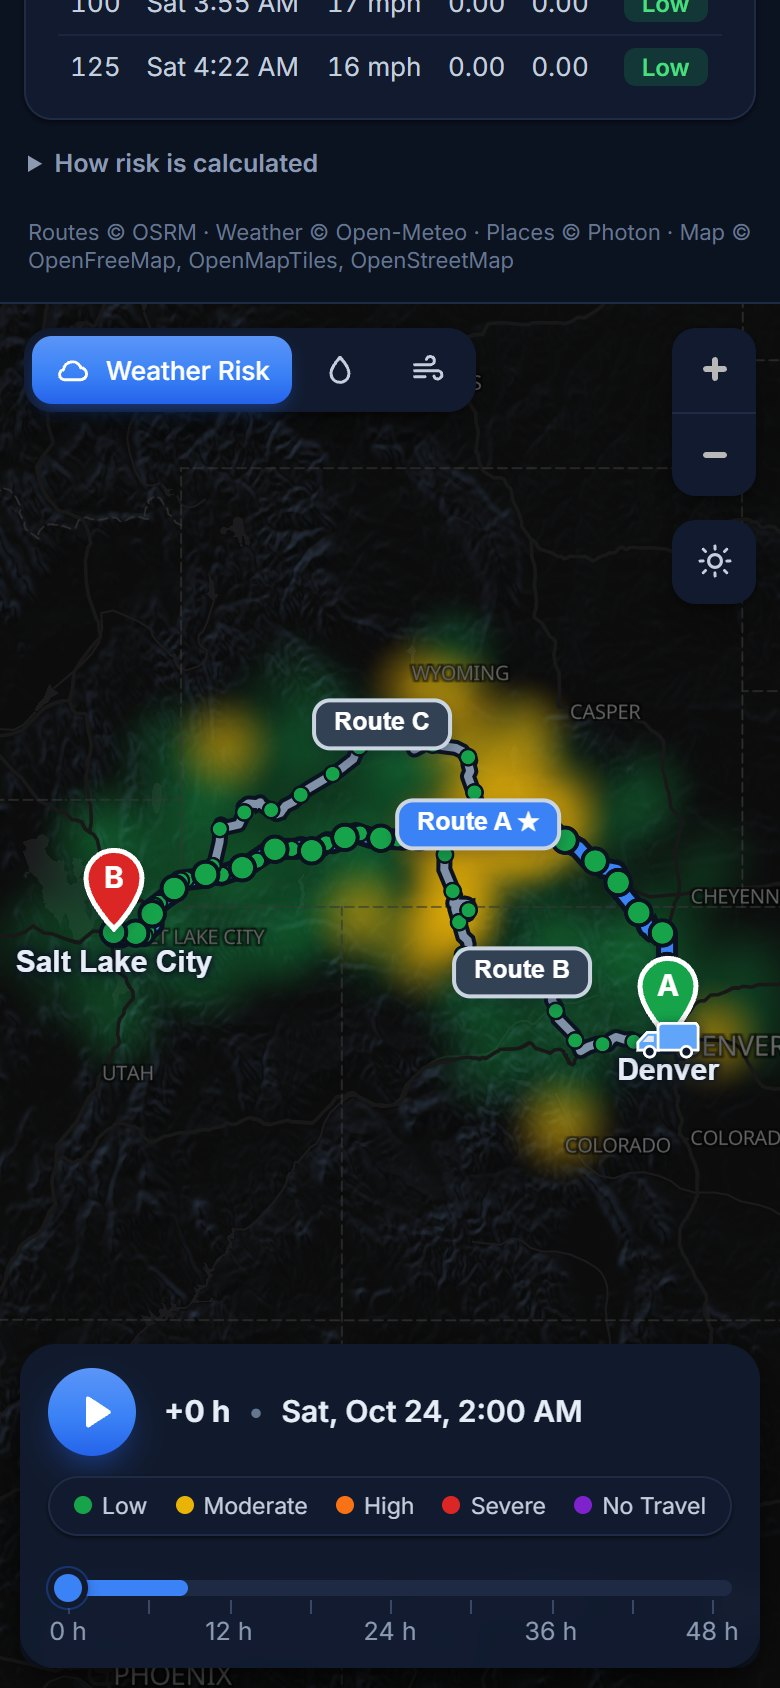
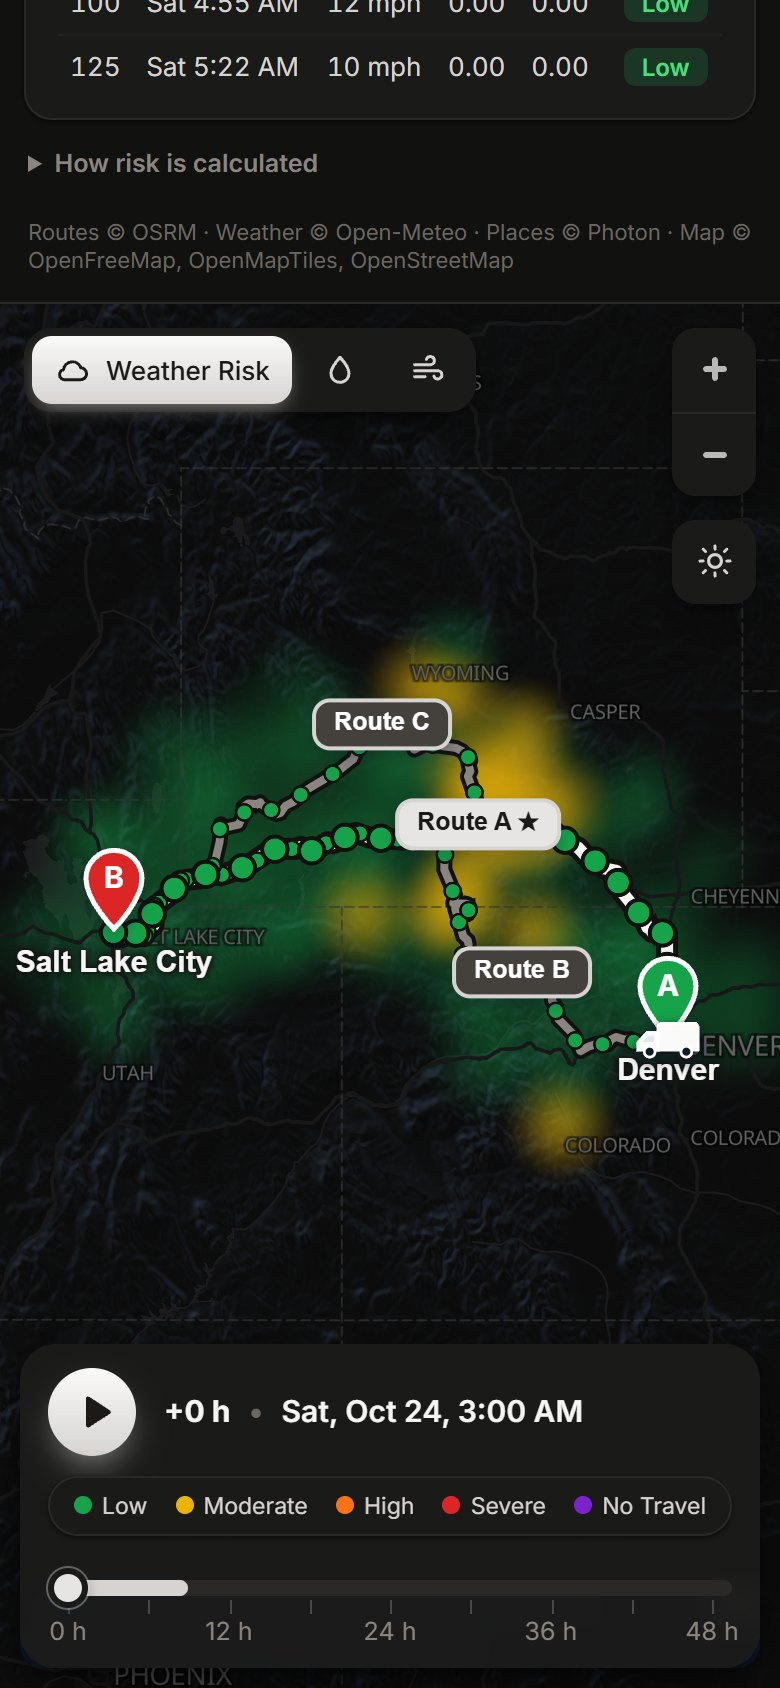
Graphite colour scheme
- Warm stone greys with near-black buttons, selection and route line in
  light mode; charcoal surfaces with light-stone accents and an off-white
  route line in dark mode. Risk colours are now the only saturated colours.
- Brand, route and glow colours are CSS tokens (the map reads its route
  colours from CSS), so a palette lives in one place; text on accent
  surfaces follows the theme.
- Graphite favicon and theme-color; tighter inputs and ellipsis on phones.

diff --git a/frontend/src/index.css b/frontend/src/index.css
@@ -1,43 +1,54 @@
 :root {
-  --bg: #f5f7fb;
+  --on-accent: #ffffff;
+  --shield-check: #ffffff;
+  --bg: #f5f5f4;
   --panel: #ffffff;
-  --text: #0f172a;
-  --text-2: #334155;
-  --muted: #64748b;
-  --faint: #94a3b8;
-  --line: #e3e8f0;
-  --line-strong: #d5dce6;
-  --accent: #2563eb;
-  --accent-strong: #1d4ed8;
-  --accent-soft: #eff5ff;
-  --accent-tint: #dbe7fe;
-  --accent-gradient: linear-gradient(180deg, #3b82f6 0%, #2563eb 60%, #1e54d6 100%);
+  --text: #1c1917;
+  --text-2: #44403c;
+  --muted: #78716c;
+  --faint: #a8a29e;
+  --line: #e7e5e4;
+  --line-strong: #d6d3d1;
+  --accent: #1c1917;
+  --accent-strong: #0c0a09;
+  --accent-soft: #f2f2f0;
+  --accent-tint: #e7e5e4;
+  --accent-gradient: linear-gradient(180deg, #44403c 0%, #1c1917 100%);
+  --accent-rgb: 28 25 23; /* for glows: rgb(var(--accent-rgb) / alpha) */
+  /* Brand (logo, shield) and map route colours. */
+  --brand: #292524;
+  --brand-deep: #0c0a09;
+  --brand-light: #a8a29e;
+  --brand-pale: #e7e5e4;
+  --route-selected: #1c1917;
+  --route-other: #a1a1aa;
+  --route-casing: #ffffff;
   --shadow-sm: 0 1px 2px rgba(15, 23, 42, 0.05), 0 1px 3px rgba(15, 23, 42, 0.05);
   --shadow-md: 0 2px 4px rgba(15, 23, 42, 0.04), 0 10px 26px -8px rgba(15, 23, 42, 0.2);
   --shadow-lg: 0 4px 10px rgba(15, 23, 42, 0.06), 0 18px 40px -12px rgba(15, 23, 42, 0.28);
   --surface: #ffffff;
-  --surface-2: #f8fafc;
-  --surface-hover: #f1f5f9;
-  --text-3: #475569;
-  --line-hover: #b9c6d8;
-  --row-line: #f1f4f8;
-  --row-hover: #f5f8fd;
-  --swap-border: #d6e3fb;
-  --radio-border: #b8c2d0;
-  --selected-bg: #f3f8ff;
-  --selected-border: #3b82f6;
-  --strip-bg: #e2e8f0;
-  --why-bg: #edf4ff;
-  --why-border: #d9e7fd;
-  --why-title: #1e3a8a;
+  --surface-2: #fafaf9;
+  --surface-hover: #f2f2f0;
+  --text-3: #57534e;
+  --line-hover: #a8a29e;
+  --row-line: #f0efed;
+  --row-hover: #f7f7f5;
+  --swap-border: #e7e5e4;
+  --radio-border: #d6d3d1;
+  --selected-bg: #fafaf9;
+  --selected-border: #1c1917;
+  --strip-bg: #e7e5e4;
+  --why-bg: #f5f5f4;
+  --why-border: #e7e5e4;
+  --why-title: #1c1917;
   --glass: rgba(255, 255, 255, 0.97);
-  --track: #e4ebf5;
-  --track-progress: #c4d9fb;
-  --trip-window: #3b82f6;
-  --tick: #b8c4d4;
-  --tag-bg: #4b5563;
+  --track: #ececea;
+  --track-progress: #d6d3d1;
+  --trip-window: #57534e;
+  --tick: #d6d3d1;
+  --tag-bg: #57534e;
   --tag-border: #ffffff;
-  --truck: #475569;
+  --truck: #57534e;
   --marker-halo: #ffffff;
   --error-bg: #fef2f2;
   --error-border: #fecaca;
@@ -104,7 +115,7 @@ h1, h2, h3, p { margin: 0; }
   border-radius: 10px;
   transition: border-color 0.15s, box-shadow 0.15s;
 }
-.input-shell:focus-within { border-color: var(--accent); box-shadow: 0 0 0 3px rgba(37, 99, 235, 0.14); }
+.input-shell:focus-within { border-color: var(--accent); box-shadow: 0 0 0 3px rgb(var(--accent-rgb) / 0.14); }
 .input-shell input {
   flex: 1;
   min-width: 0;
@@ -116,6 +127,7 @@ h1, h2, h3, p { margin: 0; }
   font-size: 13.5px;
   color: var(--text);
 }
+.input-shell input { text-overflow: ellipsis; }
 .input-shell input::placeholder { color: var(--faint); }
 .input-icon { color: var(--muted); flex-shrink: 0; }
 .input-text { flex: 1; min-width: 0; font-size: 13.5px; white-space: nowrap; overflow: hidden; text-overflow: ellipsis; }
@@ -161,21 +173,21 @@ h1, h2, h3, p { margin: 0; }
   transition: background 0.15s;
 }
 .segmented button:hover { background: var(--accent-tint); }
-.segmented button.on { background: var(--accent-gradient); color: #fff; font-weight: 600; box-shadow: 0 2px 6px -1px rgba(37, 99, 235, 0.5); }
+.segmented button.on { background: var(--accent-gradient); color: var(--on-accent); font-weight: 600; box-shadow: 0 2px 6px -1px rgb(var(--accent-rgb) / 0.5); }
 
 button.primary {
   height: 46px;
   border: 0;
   border-radius: 10px;
   background: var(--accent-gradient);
-  color: #fff;
+  color: var(--on-accent);
   font-size: 15px;
   font-weight: 600;
   display: flex;
   align-items: center;
   justify-content: center;
   gap: 10px;
-  box-shadow: 0 8px 18px -6px rgba(37, 99, 235, 0.6), inset 0 1px 0 rgba(255, 255, 255, 0.18);
+  box-shadow: 0 8px 18px -6px rgb(var(--accent-rgb) / 0.6), inset 0 1px 0 rgba(255, 255, 255, 0.18);
   transition: filter 0.15s, transform 0.05s;
 }
 button.primary:hover { filter: brightness(1.06); }
@@ -349,7 +361,7 @@ button.link:hover { text-decoration: underline; }
   transition: background 0.15s;
 }
 .layer-switch button:hover { background: var(--surface-hover); }
-.layer-switch button.on { background: var(--accent-gradient); color: #fff; box-shadow: 0 4px 10px -3px rgba(37, 99, 235, 0.55); }
+.layer-switch button.on { background: var(--accent-gradient); color: var(--on-accent); box-shadow: 0 4px 10px -3px rgb(var(--accent-rgb) / 0.55); }
 
 .maplibregl-ctrl-top-right .maplibregl-ctrl { margin: 20px 20px 0 0; }
 .maplibregl-ctrl-group:not(:empty) { border-radius: 12px; box-shadow: var(--shadow-md); overflow: hidden; }
@@ -394,7 +406,7 @@ button.link:hover { text-decoration: underline; }
 }
 .route-tag-meta { display: inline-flex; align-items: center; gap: 5px; font-size: 11px; font-weight: 500; opacity: 0.88; }
 .route-tag-meta i { width: 7px; height: 7px; border-radius: 50%; box-shadow: 0 0 0 1.5px rgba(255, 255, 255, 0.85); }
-.route-tag.selected { background: var(--accent); padding: 5px 12px 6px; font-size: 14px; z-index: 2; }
+.route-tag.selected { background: var(--accent); color: var(--on-accent); padding: 5px 12px 6px; font-size: 14px; z-index: 2; }
 .route-tag.selected .route-tag-meta { font-size: 11.5px; opacity: 0.95; }
 
 /* Checkpoint popup */
@@ -443,8 +455,8 @@ button.link:hover { text-decoration: underline; }
   border: 0;
   border-radius: 50%;
   background: var(--accent-gradient);
-  color: #fff;
-  box-shadow: 0 8px 18px -6px rgba(37, 99, 235, 0.65);
+  color: var(--on-accent);
+  box-shadow: 0 8px 18px -6px rgb(var(--accent-rgb) / 0.65);
 }
 .forecast-label { display: flex; align-items: baseline; gap: 9px; font-size: 18px; font-weight: 600; white-space: nowrap; }
 .forecast-label strong { font-weight: 700; }
@@ -473,55 +485,65 @@ button.link:hover { text-decoration: underline; }
 .track input[type="range"]::-moz-range-track { height: 24px; background: transparent; }
 .track input[type="range"]::-webkit-slider-thumb {
   -webkit-appearance: none; width: 20px; height: 20px; margin-top: 2px; border-radius: 50%;
-  background: var(--accent); border: 3px solid var(--surface); box-shadow: 0 0 0 1px rgba(37, 99, 235, 0.35), 0 2px 6px rgba(15, 23, 42, 0.35);
+  background: var(--accent); border: 3px solid var(--surface); box-shadow: 0 0 0 1px rgb(var(--accent-rgb) / 0.35), 0 2px 6px rgba(15, 23, 42, 0.35);
 }
 .track input[type="range"]::-moz-range-thumb {
   width: 14px; height: 14px; border-radius: 50%;
-  background: var(--accent); border: 3px solid var(--surface); box-shadow: 0 0 0 1px rgba(37, 99, 235, 0.35), 0 2px 6px rgba(15, 23, 42, 0.35);
+  background: var(--accent); border: 3px solid var(--surface); box-shadow: 0 0 0 1px rgb(var(--accent-rgb) / 0.35), 0 2px 6px rgba(15, 23, 42, 0.35);
 }
-.track input[type="range"]:focus-visible { outline: 2px solid rgba(37, 99, 235, 0.35); outline-offset: 3px; border-radius: 6px; }
+.track input[type="range"]:focus-visible { outline: 2px solid rgb(var(--accent-rgb) / 0.35); outline-offset: 3px; border-radius: 6px; }
 .tick-labels { position: relative; height: 20px; margin-top: 2px; font-size: 12.5px; color: var(--muted); }
 .tick-labels span { position: absolute; transform: translateX(-50%); white-space: nowrap; }
 
 /* ---------- Dark theme ---------- */
 :root[data-theme="dark"] {
-  --bg: #0b1220;
-  --panel: #111a2e;
-  --surface: #111a2e;
-  --surface-2: #0e1628;
-  --surface-hover: #1a2540;
-  --text: #e6edf7;
-  --text-2: #c3cede;
-  --text-3: #9fb0c8;
-  --muted: #8b9ab2;
-  --faint: #66768f;
-  --line: #1f2b45;
-  --line-strong: #2a3756;
-  --line-hover: #3a4b70;
-  --row-line: #1a2540;
-  --row-hover: #16213a;
-  --accent: #3b82f6;
-  --accent-strong: #60a5fa;
-  --accent-soft: #15233f;
-  --accent-tint: #1c3157;
-  --accent-gradient: linear-gradient(180deg, #5b95f8 0%, #3b82f6 55%, #2563eb 100%);
-  --swap-border: #24375e;
-  --radio-border: #3a4865;
-  --selected-bg: #13244a;
-  --selected-border: #3b82f6;
-  --strip-bg: #24314d;
-  --why-bg: #112142;
-  --why-border: #1e3563;
-  --why-title: #bfdbfe;
-  --glass: rgba(17, 26, 46, 0.95);
-  --track: #1e2a44;
-  --track-progress: #23447c;
-  --trip-window: #3b82f6;
-  --tick: #3a4865;
-  --tag-bg: #334155;
-  --tag-border: #cbd5e1;
-  --truck: #cbd5e1;
-  --marker-halo: #0b1220;
+  --on-accent: #1c1917;
+  --shield-check: #1c1917;
+  --brand: #a8a29e;
+  --brand-deep: #78716c;
+  --brand-light: #d6d3d1;
+  --brand-pale: #e7e5e4;
+  --bg: #111110;
+  --panel: #1a1a19;
+  --surface: #1a1a19;
+  --surface-2: #151514;
+  --surface-hover: #242422;
+  --text: #f5f5f4;
+  --text-2: #d6d3d1;
+  --text-3: #a8a29e;
+  --muted: #8a8580;
+  --faint: #6b6762;
+  --line: #2a2928;
+  --line-strong: #353330;
+  --line-hover: #4a4744;
+  --row-line: #232221;
+  --row-hover: #1f1e1d;
+  --accent: #e7e5e4;
+  --accent-strong: #fafaf9;
+  --accent-soft: #262524;
+  --accent-tint: #302e2c;
+  --accent-gradient: linear-gradient(180deg, #fafaf9 0%, #d6d3d1 100%);
+  --accent-rgb: 231 229 228;
+  --route-selected: #f5f5f4;
+  --route-other: #8a8580;
+  --route-casing: #111110;
+  --swap-border: #2f2d2b;
+  --radio-border: #4a4744;
+  --selected-bg: #232221;
+  --selected-border: #e7e5e4;
+  --strip-bg: #2f2d2b;
+  --why-bg: #1d1c1b;
+  --why-border: #2f2d2b;
+  --why-title: #f5f5f4;
+  --glass: rgba(26, 26, 25, 0.95);
+  --track: #2a2928;
+  --track-progress: #4a4744;
+  --trip-window: #d6d3d1;
+  --tick: #4a4744;
+  --tag-bg: #44403c;
+  --tag-border: #d6d3d1;
+  --truck: #d6d3d1;
+  --marker-halo: #111110;
   --error-bg: #2a1215;
   --error-border: #5c1d24;
   --error-text: #fca5a5;
@@ -533,8 +555,8 @@ button.link:hover { text-decoration: underline; }
   --risk-tint-3: rgba(239, 68, 68, 0.2); --risk-tint-4: rgba(168, 85, 247, 0.22);
   color-scheme: dark;
 }
-:root[data-theme="dark"] .truck-marker.selected { color: #60a5fa; }
-:root[data-theme="dark"] .why svg { filter: drop-shadow(0 0 10px rgba(59, 130, 246, 0.35)); }
+:root[data-theme="dark"] .truck-marker.selected { color: #fafaf9; }
+
 /* MapLibre's own controls: dark surfaces, light icons. */
 :root[data-theme="dark"] .maplibregl-ctrl-group { background: var(--surface); }
 :root[data-theme="dark"] .maplibregl-ctrl-group button + button { border-top-color: var(--line); }
@@ -575,6 +597,8 @@ button.link:hover { text-decoration: underline; }
   .brand p { white-space: normal; }
   .layer-switch button:not(.on) span { display: none; }
   .route-card { padding: 12px; gap: 10px; }
+  .input-shell { gap: 6px; padding: 0 8px 0 9px; }
+  .input-shell input, .input-text { font-size: 13px; }
   /* The cards above already carry each route's summary; keep map tags compact. */
   .route-tag-meta { display: none; }
   .route-tag, .route-tag.selected { padding: 3px 9px; font-size: 12.5px; }

diff --git a/frontend/src/icons.tsx b/frontend/src/icons.tsx
@@ -122,12 +122,12 @@ export const ShieldCheckIcon = ({ size = 40 }: { size?: number }) => (
   <svg width={size} height={size} viewBox="0 0 40 40" aria-hidden>
     <defs>
       <linearGradient id="shield-fill" x1="0" y1="0" x2="0" y2="1">
-        <stop offset="0" stopColor="#60a5fa" />
-        <stop offset="1" stopColor="#2563eb" />
+        <stop offset="0" style={{ stopColor: "var(--brand-light)" }} />
+        <stop offset="1" style={{ stopColor: "var(--brand)" }} />
       </linearGradient>
     </defs>
     <path d="M20 3.5 33 8.4v9.8c0 8.2-5.5 14.2-13 16.3C12.5 32.4 7 26.4 7 18.2V8.4z" fill="url(#shield-fill)" />
-    <path d="m14 19.2 4.2 4.2 8-8.3" fill="none" stroke="#fff" strokeWidth="3" strokeLinecap="round"
+    <path d="m14 19.2 4.2 4.2 8-8.3" fill="none" style={{ stroke: "var(--shield-check)" }} strokeWidth="3" strokeLinecap="round"
       strokeLinejoin="round" />
   </svg>
 );
@@ -137,19 +137,19 @@ export const Logo = () => (
   <svg width="66" height="41" viewBox="0 0 74 46" aria-hidden>
     <defs>
       <linearGradient id="logo-cloud" x1="0" y1="0" x2="0" y2="1">
-        <stop offset="0" stopColor="#bfdbfe" />
-        <stop offset="1" stopColor="#60a5fa" />
+        <stop offset="0" style={{ stopColor: "var(--brand-pale)" }} />
+        <stop offset="1" style={{ stopColor: "var(--brand-light)" }} />
       </linearGradient>
       <linearGradient id="logo-truck" x1="0" y1="0" x2="1" y2="1">
-        <stop offset="0" stopColor="#3b82f6" />
-        <stop offset="1" stopColor="#1d4ed8" />
+        <stop offset="0" style={{ stopColor: "var(--brand)" }} />
+        <stop offset="1" style={{ stopColor: "var(--brand-deep)" }} />
       </linearGradient>
     </defs>
     <path d="M22 24h30a8.5 8.5 0 0 0 1.2-16.9A12.5 12.5 0 0 0 29.6 6 9 9 0 0 0 22 24z" fill="url(#logo-cloud)" />
-    <path d="M2 18h9M0 23h9M3 28h8" stroke="#93c5fd" strokeWidth="2.4" strokeLinecap="round" />
+    <path d="M2 18h9M0 23h9M3 28h8" style={{ stroke: "var(--brand-light)" }} strokeWidth="2.4" strokeLinecap="round" />
     <rect x="13" y="16" width="33" height="19" rx="3" fill="url(#logo-truck)" />
-    <path d="M46 21h11l8 8.5V35H46z" fill="#1e40af" />
-    <path d="M49 23.5h7l4.8 5H49z" fill="#dbeafe" />
+    <path d="M46 21h11l8 8.5V35H46z" style={{ fill: "var(--brand-deep)" }} />
+    <path d="M49 23.5h7l4.8 5H49z" style={{ fill: "var(--brand-pale)" }} />
     <circle cx="22" cy="37" r="4.6" fill="#0f172a" stroke="#fff" strokeWidth="2.2" />
     <circle cx="56" cy="37" r="4.6" fill="#0f172a" stroke="#fff" strokeWidth="2.2" />
   </svg>

diff --git a/frontend/src/components/MapView.tsx b/frontend/src/components/MapView.tsx
@@ -23,22 +23,14 @@ const LAYER_PROPERTY: Record<WeatherLayer, string> = { risk: "r", precip: "p", w
 // as the forecast time moves between them.
 const HEAT_LAYERS = ["heat", "heat-next"] as const;
 
-/** Colours for the layers this app draws on top of the basemap. */
+/** Per-theme look of the layers this app draws (route colours come from CSS; see routeColors). */
 const PALETTE = {
   light: {
-    casing: "#ffffff",
-    selected: "#1d4ed8",
-    other: "#7b8794",
-    checkpointStroke: "#ffffff",
     lowOpacity: 0.3,
     riskOpacity: 0.62,
     hillshade: { exaggeration: 0.35, shadow: "#4b5d6b", highlight: "#ffffff", accent: "#6b7f72" },
   },
   dark: {
-    casing: "#0b1220",
-    selected: "#3b82f6",
-    other: "#8191a8",
-    checkpointStroke: "#0b1220",
     lowOpacity: 0.15,
     riskOpacity: 0.5,
     hillshade: { exaggeration: 0.45, shadow: "#000000", highlight: "#3b4a63", accent: "#1c2533" },
@@ -72,9 +64,21 @@ function discRadius(miles: number, lat: number): maplibregl.ExpressionSpecificat
   return ["interpolate", ["exponential", 2], ["zoom"], 0, r0, 9, r0 * 2 ** 9];
 }
 
+/** Route colours from the active theme's CSS variables, so a palette is defined in one place. */
+function routeColors() {
+  const css = getComputedStyle(document.documentElement);
+  const read = (name: string, fallback: string) => css.getPropertyValue(name).trim() || fallback;
+  return {
+    casing: read("--route-casing", "#ffffff"),
+    selected: read("--route-selected", "#1c1917"),
+    other: read("--route-other", "#a1a1aa"),
+    checkpointStroke: read("--route-casing", "#ffffff"),
+  };
+}
+
 /** Add the terrain, weather, route and checkpoint layers to a freshly loaded basemap. */
 function addOverlays(map: maplibregl.Map, theme: Theme) {
-  const p = PALETTE[theme];
+  const p = { ...PALETTE[theme], ...routeColors() };
   const layers = map.getStyle().layers;
   const firstLine = layers.find((l) => /^(water|waterway|tunnel|road|bridge|highway)/.test(l.id))?.id;
   const firstLabel = layers.find((l) => l.type === "symbol")?.id;

diff --git a/frontend/index.html b/frontend/index.html
@@ -5,7 +5,7 @@
     <link rel="icon" type="image/svg+xml" href="/favicon.svg" />
     <meta name="description" content="Compare truck routes by forecast weather risk at the truck's arrival time." />
     <meta name="viewport" content="width=device-width, initial-scale=1.0" />
-    <meta name="theme-color" content="#f5f7fb" />
+    <meta name="theme-color" content="#f5f5f4" />
     <script>
       // Apply the theme before first paint so dark mode never flashes white.
       (function () {
@@ -13,7 +13,7 @@
         try { saved = localStorage.getItem("wtr-theme"); } catch (e) {}
         var dark = saved ? saved === "dark" : window.matchMedia("(prefers-color-scheme: dark)").matches;
         document.documentElement.dataset.theme = dark ? "dark" : "light";
-        if (dark) document.querySelector('meta[name="theme-color"]').setAttribute("content", "#0b1220");
+        if (dark) document.querySelector('meta[name="theme-color"]').setAttribute("content", "#111110");
       })();
     </script>
     <link rel="preconnect" href="https://fonts.googleapis.com" />

diff --git a/frontend/src/theme.ts b/frontend/src/theme.ts
@@ -24,5 +24,5 @@ export function saveTheme(theme: Theme): void {
 
 export function applyTheme(theme: Theme): void {
   document.documentElement.dataset.theme = theme;
-  document.querySelector('meta[name="theme-color"]')?.setAttribute("content", theme === "dark" ? "#0b1220" : "#f5f7fb");
+  document.querySelector('meta[name="theme-color"]')?.setAttribute("content", theme === "dark" ? "#111110" : "#f5f5f4");
 }
